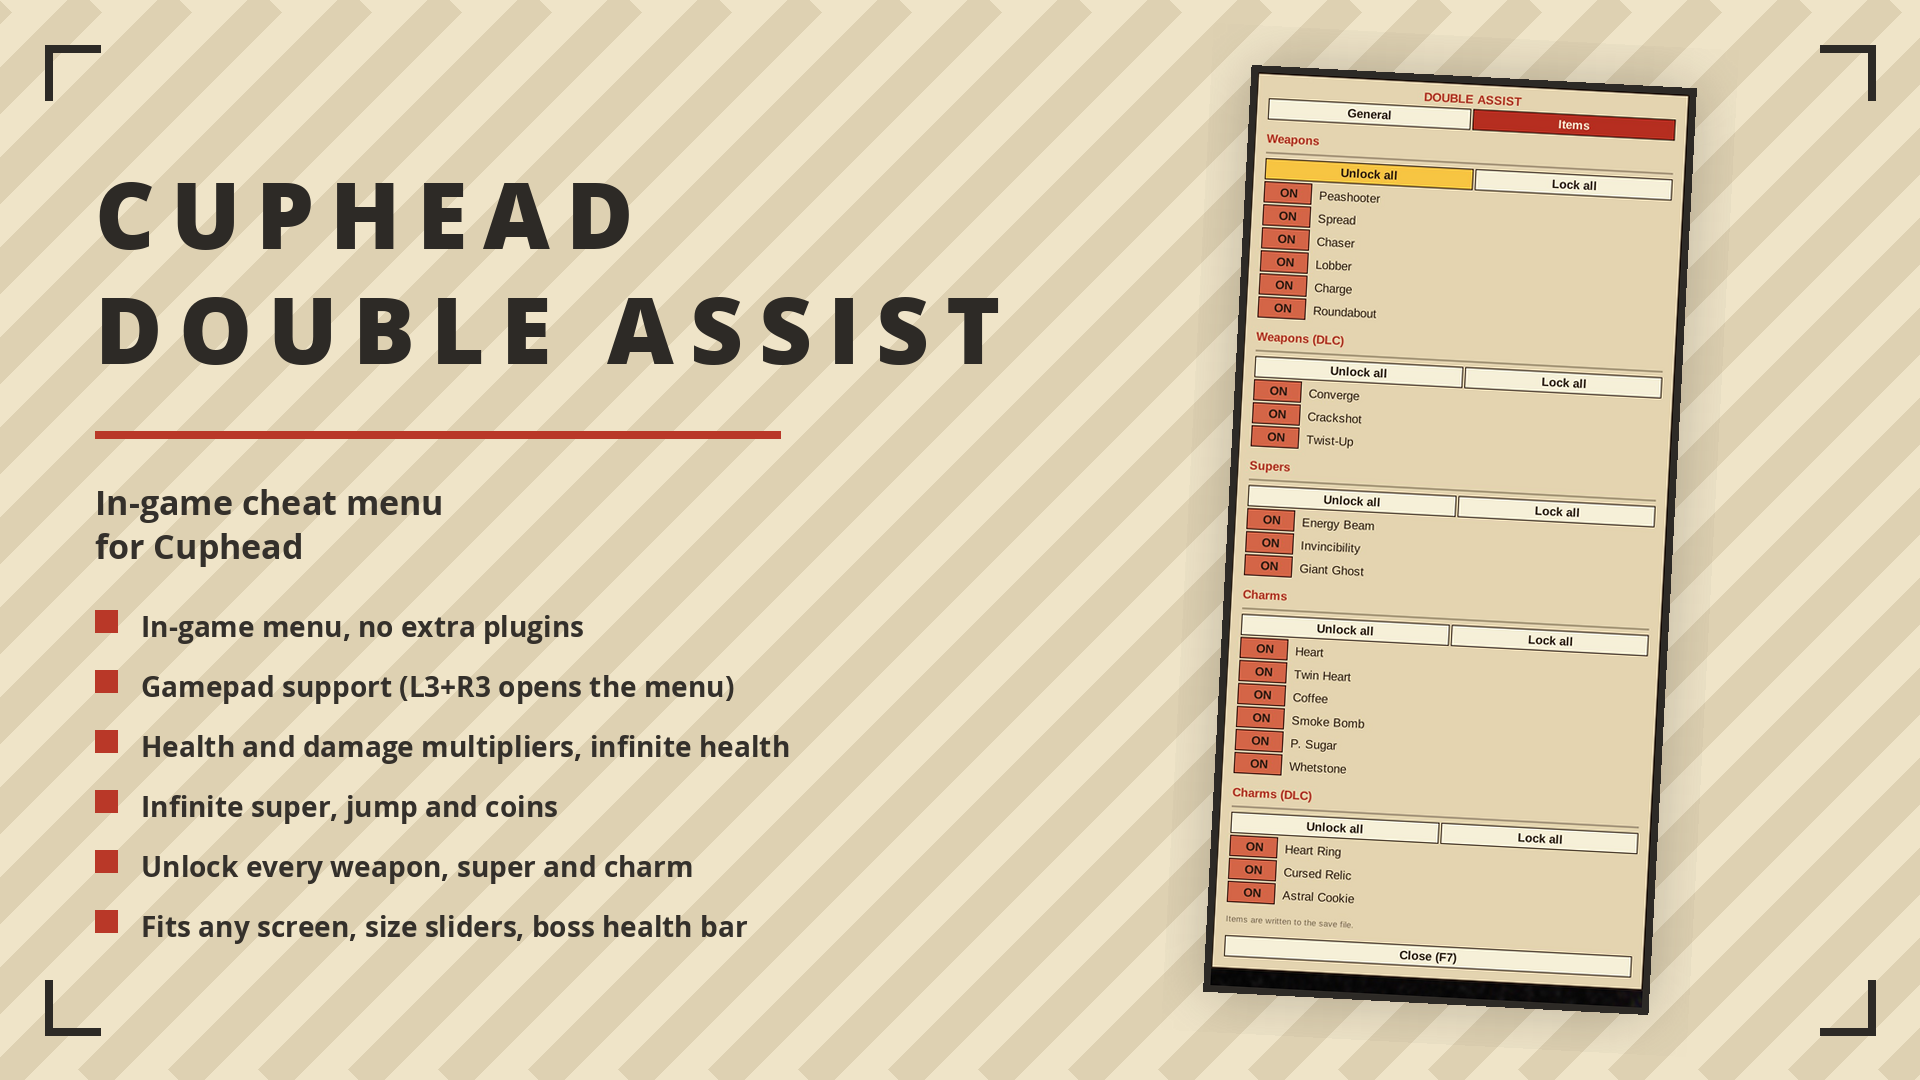
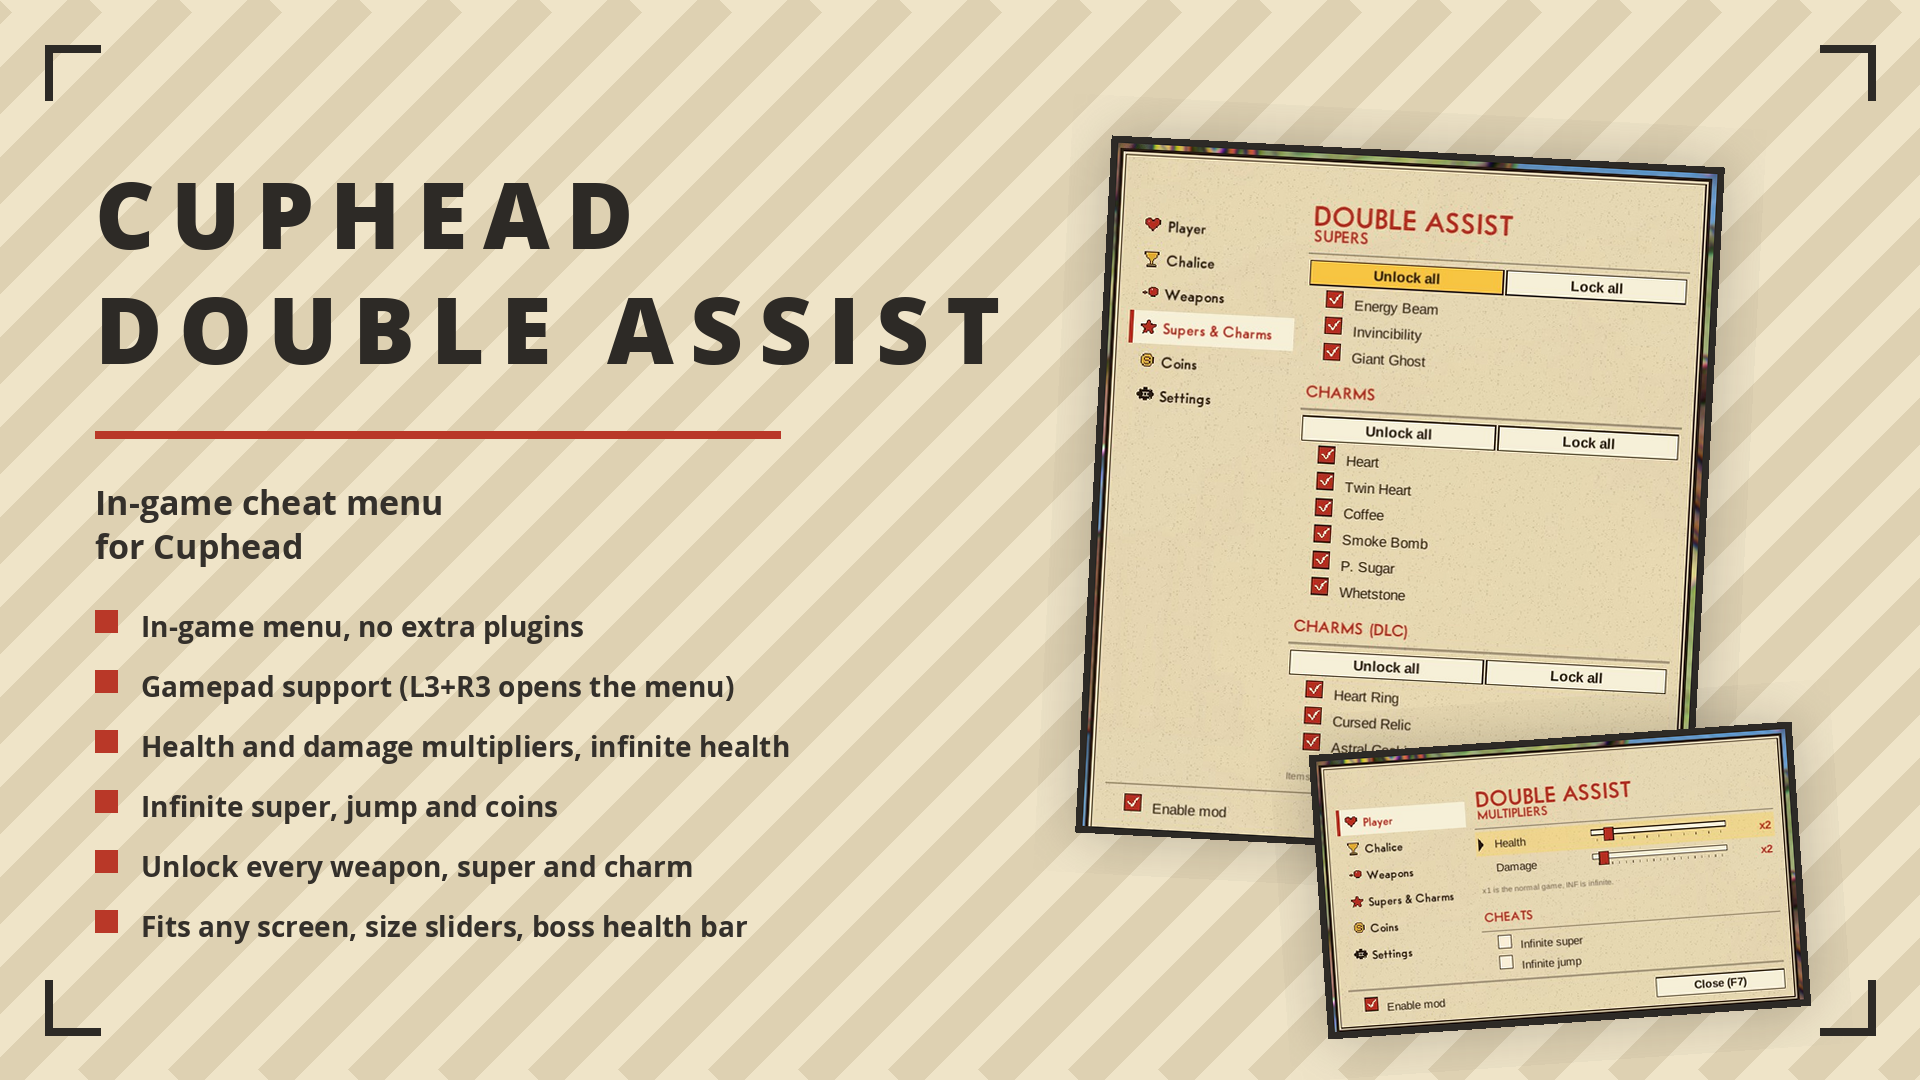
CupheadDoubleAssist 2.5.0: tabbed menu, x1..INF sliders, hotkey rebinding

Changed region(s): [[0.5625, 0.0611, 0.9688, 0.9778]]

diff --git a/Cuphead/CupheadDoubleAssist/README.md b/Cuphead/CupheadDoubleAssist/README.md
@@ -4,17 +4,19 @@
 
 ![cover](screenshots/00-hero.png)
 
-Multiplies your damage and health (2x-10x), with optional infinite health and damage. In-game menu on F7 or L3+R3 on a gamepad.
+Multiplies your damage and health (x1 to x10, or infinite). In-game menu on F7 or L3+R3 on a gamepad.
 
 ## ✨ Features
+- Tabbed menu: Player, Chalice, Weapons, Supers & Charms, Coins, Settings
 - Full gamepad control, no mouse needed (see Controls below)
-- Damage & health 2x-10x
-- Optional infinite health / damage
+- One slider per stat: x1 is the normal game, x2 to x10, INF at the end
 - Infinite super, jump and coins
+- Play as Ms. Chalice per player (DLC)
+- Every weapon, super and charm by its shop name in the game's language, unlock and lock back
 - Boss health bar with the boss portrait, updates as you hit
-- Items tab: every weapon, super and charm by its shop name in the game's language, unlock and lock back
 - Menu and boss bar scale with the screen, with size sliders
-- Hotkeys or controller, live config reload
+- Rebind every hotkey and controller shortcut in the Settings tab, reset to defaults
+- Live config reload
 
 ## 🎮 Controls
 | Input | Action |
@@ -29,9 +31,13 @@ Multiplies your damage and health (2x-10x), with optional infinite health and da
 Your character stays put while the menu is open.
 
 ## 📸 Screenshots
-![menu](screenshots/01-menu.png)
-![items](screenshots/02-items.png)
-![boss hud](screenshots/03-boss-hud.jpg)
+![player](screenshots/01-player.png)
+![chalice](screenshots/02-chalice.png)
+![weapons](screenshots/03-weapons.png)
+![supers and charms](screenshots/04-supers-charms.png)
+![coins](screenshots/05-coins.png)
+![settings](screenshots/06-settings.png)
+![boss hud](screenshots/07-boss-hud.jpg)
 
 ## 🌍 Translating
 Texts live in `I18n.cs`, one dictionary per language keyed by the English string. To add a
